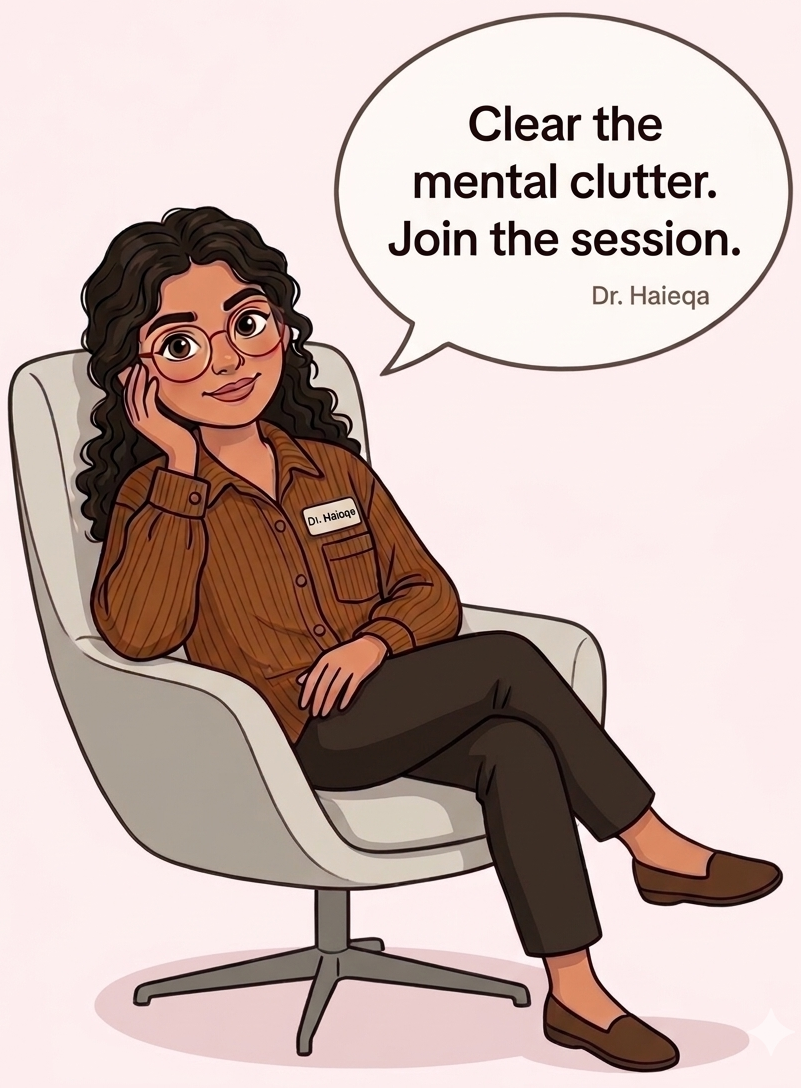
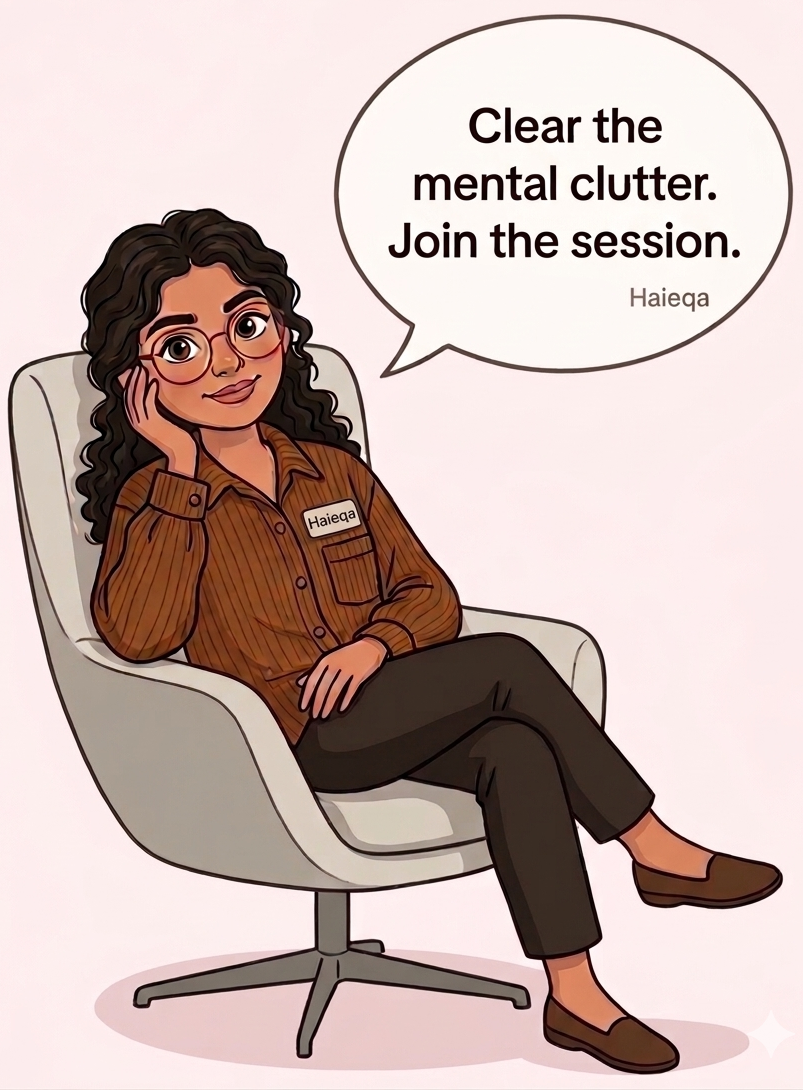
Fixing merge conflicts

diff --git a/index.html b/index.html
@@ -6,7 +6,7 @@
     <meta charset="UTF-8">
     <meta http-equiv="X-UA-Compatible" content="IE=edge">
     <meta name="viewport" content="width=device-width, initial-scale=1.0">
-    <title>Dr haieqa Zahid - Clinical Psychologist & Academic</title>
+    <title>haieqa Zahid - Clinical Psychologist & Academic</title>
 
     <link rel="icon" type="image/x-icon" href="assets/images/favicon.png">
 
@@ -38,7 +38,7 @@
     </div>
     <div class="left-sidebar">
         <img class="me" src="assets/images/me.jpeg" alt="Me">
-        <h2 class="name">Dr Haieqa Zahid</h2>
+        <h2 class="name">Haieqa Zahid</h2>
         <h2 class="email">haieqazahid@gmail.com</h2>
         <ul class="social-profile d-flex align-items-center flex-wrap justify-content-center">
             <li>
@@ -79,7 +79,7 @@
                         <div class="hero-content content-width">
                             <div class="section-header">
                                 <h1 class="scroll-animation" data-animation="fade_from_bottom">
-                                     Hello! I'm Dr Haieqa Zahid.
+                                     Hello! I'm Haieqa Zahid.
                                 </h1>
                                 <img src="assets/images/haieqa session.png" alt="Haieqa Zahid" style="float: right; width: 200px; height: auto; margin-left: 20px; margin-top: -50px;">
                             </div>
